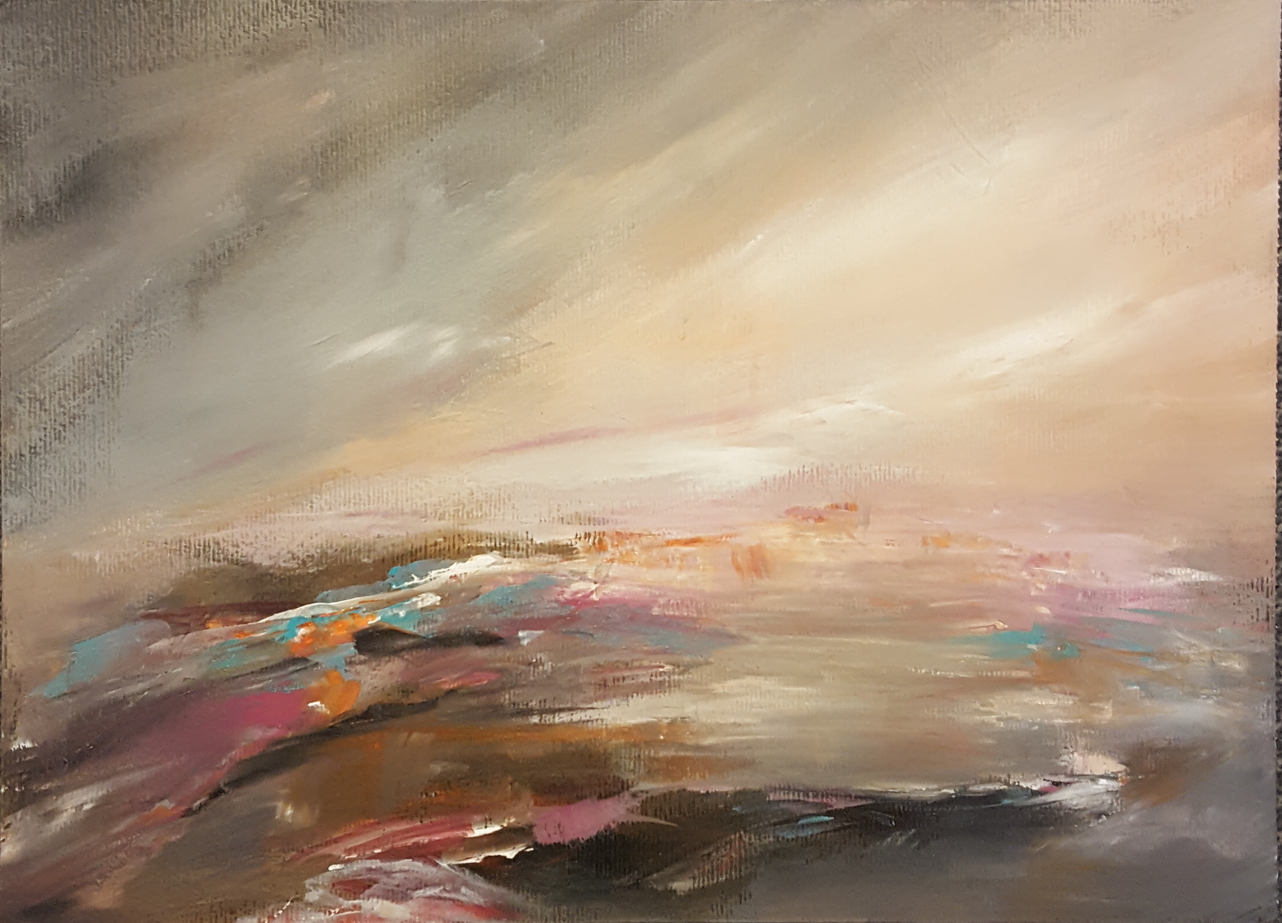
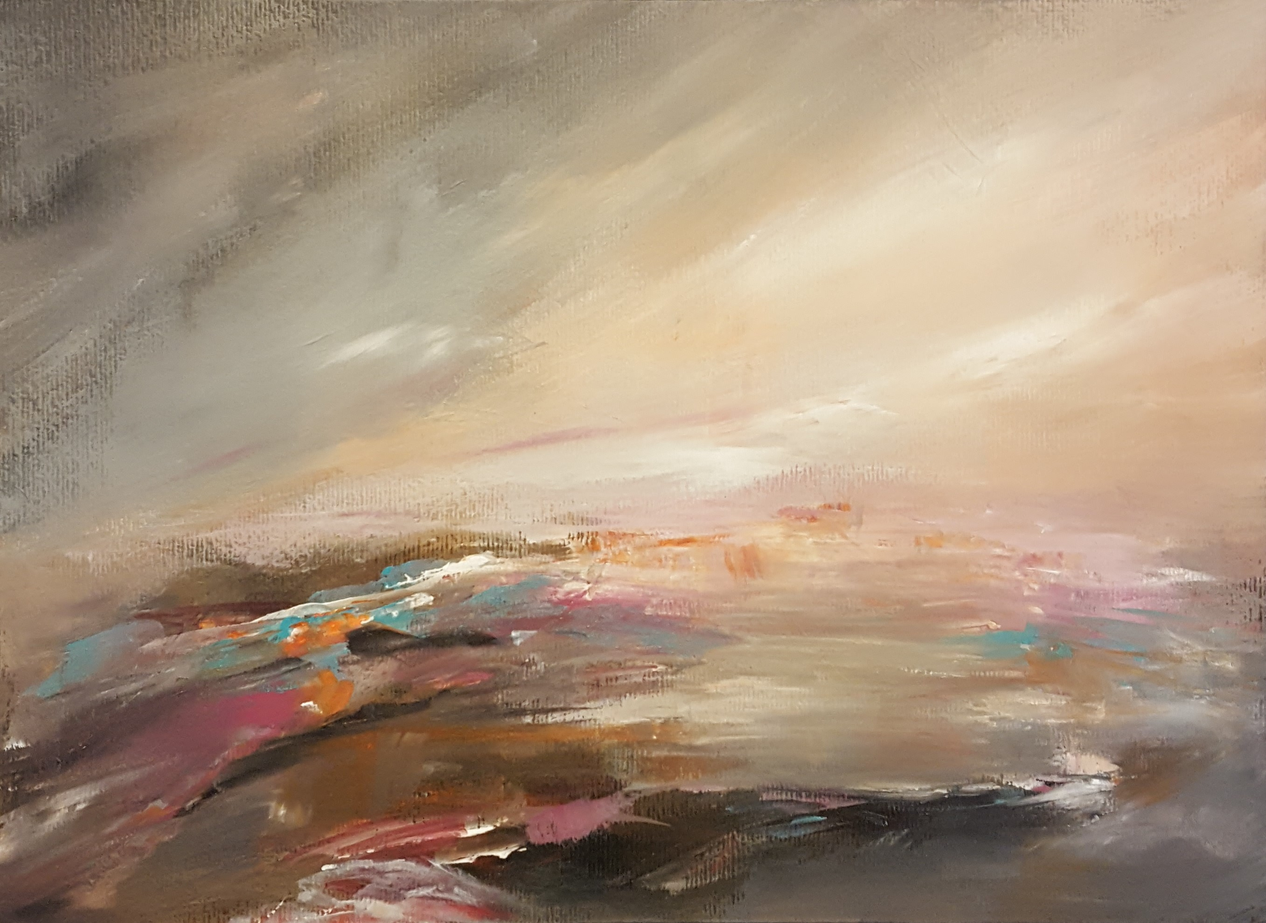
laget thumbnails og lagt vannmerke på bilder

diff --git a/src/bilder.html b/src/bilder.html
@@ -48,6 +48,7 @@
         <br>Jeg sender over hele landet.
         <br>Ved omsetning av kunst med salgspris over kr. 2.000,- skal det betales 5% kunstavgift.<br>Kunstavgiften er inkludert i prisen på alle mine bilder.</p>
         <p>Det er alltid et større utvalg i Mitt Atelier på Kleppe, <br>samt på min Instagram <a href="http://www.instagram.com/mittatelier" target="_blank"><img src="img/insta.png" alt="Instagram logo" style="text-decoration:none;width:22px;height:22px;border:0;"></a> mittatelier.</p>
+        <p>Klikk på bildet for å se større versjon med bedre oppløsning.</p>
       </article>
     </main>
 
@@ -58,32 +59,32 @@
       </div>
       
       <div class="gallery">
-        <a target="_blank" href="img/haap.jpg"><img src="img/haap.jpg" alt="Håp" width="400px"></a>
+        <a target="_blank" href="img/haap_logo.jpg"><img src="img/haap_liten.jpg" alt="Håp" width="400px"></a>
         <div class="desc">"Håp"<br>80 x 80 cm<br>Olje på lerret<br>Pris kr. 5100,-</div>
       </div>
 
       <div class="gallery">
-        <a target="_blank" href="img/strommer.jpg"><img src="img/strommer.jpg" alt="Strømmer av nåde" width="400"></a>
+        <a target="_blank" href="img/strommer_logo.jpg"><img src="img/strommer_liten.jpg" alt="Strømmer av nåde" width="400"></a>
         <div class="desc">"Strømmer av nåde"<br>80 x 80 cm<br>Olje på lerret<br>Pris kr. 5100,-</div>
       </div>
 
       <div class="gallery">
-        <a target="_blank" href="img/howclose.jpg"><img src="img/howclose.jpg" alt="How Close" width="400"></a>
+        <a target="_blank" href="img/howclose_logo.jpg"><img src="img/howclose_liten.jpg" alt="How Close" width="400"></a>
         <div class="desc">"How Close"<br>80 x 80 cm<br>Olje på lerret<br>Pris kr. 5100,-</div>
       </div>
 
       <div class="gallery">
-        <a target="_blank" href="img/fredfull.jpg"><img src="img/fredfull.jpg" alt="Fredfull" width="400"></a>
+        <a target="_blank" href="img/fredfull_logo.jpg"><img src="img/fredfull_liten.jpg" alt="Fredfull" width="400"></a>
         <div class="desc">"Fredfull"<br>80 x 80 cm<br>Olje på lerret<br>Pris kr. 4800,-</div>
       </div>
 
       <div class="gallery">
-        <a target="_blank" href="img/olje_1.jpg"><img src="img/olje_1.jpg" alt="Uten tittel" width="400"></a>
+        <a target="_blank" href="img/olje_1_logo.jpg"><img src="img/olje_1_liten.jpg" alt="Uten tittel" width="400"></a>
         <div class="desc">"Uten tittel"<br>80 x 80 cm<br>Olje på lerret<br>Pris kr. 4800,-</div>
       </div>
 
       <div class="gallery">
-        <a target="_blank" href="img/stillehav.jpg"><img src="img/stillehav.jpg" alt="Stille hav" width="400"></a>
+        <a target="_blank" href="img/stillehav_logo.jpg"><img src="img/stillehav_liten.jpg" alt="Stille hav" width="400"></a>
         <div class="desc">"Stille hav"<br>80 x 60 cm<br>Olje på lerret (deep edge canvas)<br>Pris kr. 3000,-</div>
       </div>
 
@@ -92,18 +93,18 @@
       </div>
 
       <div class="gallery">
-        <a target="_blank" href="img/trost.jpg"><img src="img/trost.jpg" alt="Trøst" width="250px"></a>
+        <a target="_blank" href="img/trost_logo.jpg"><img src="img/trost_liten.jpg" alt="Trøst" width="250px"></a>
         <div class="desc">"Trøst"<br>50 x 70 cm<br>Akryl på lerret (deep edge canvas)<br>Pris kr. 3600,-</div>
       </div>
 
       <div class="gallery">
-        <a target="_blank" href="img/akryllerret_1.jpg"><img src="img/akryllerret_1.jpg" alt="Uten tittel" width="400px"></a>
-        <div class="desc">"Uten tittel"<br>80 x 80 cm<br>Akryl på lerret<br>Pris kr. 4800,-</div>
+        <a target="_blank" href="img/akryllerret_1_logo.jpg"><img src="img/akryllerret_1_liten.jpg" alt="Uten tittel" width="400px"></a>
+        <div class="desc"><br>80 x 80 cm<br>Akryl på lerret<br>Pris kr. 4800,-</div>
       </div>
 
       <div class="gallery">
-        <a target="_blank" href="img/akryllerret_2.jpg"><img src="img/akryllerret_2.jpg" alt="Uten tittel" width="400px"></a>
-        <div class="desc">"Uten tittel"<br>80 x 80 cm<br>Akryl på lerret<br>Pris kr. 4800,-</div>
+        <a target="_blank" href="img/akryllerret_2_logo.jpg"><img src="img/akryllerret_2_liten.jpg" alt="Uten tittel" width="400px"></a>
+        <div class="desc"><br>80 x 80 cm<br>Akryl på lerret<br>Pris kr. 4800,-</div>
       </div>
 
       <div style="width: 100%; padding: 15px;">
@@ -111,53 +112,53 @@
       </div>
 
       <div class="gallery">
-        <a target="_blank" href="img/akryl_1.jpg"><img src="img/akryl_1.jpg" alt="Akryl på papir" width="400"></a>
+        <a target="_blank" href="img/akryl_1_logo.jpg"><img src="img/akryl_1_liten.jpg" alt="Akryl på papir" width="400"></a>
         <div class="desc"> <br>42 x 30 cm (A3)<br>Akryl på papir<br>Pris kr. 1100,-</div>
       </div>
 
       <div class="gallery">
-        <a target="_blank" href="img/akryl_2.jpg"><img src="img/akryl_2.jpg" alt="Akryl på papir" width="400"></a>
-        <div class="desc"> <br>42 x 30 cm<br>Akryl på papir<br>Pris kr. 1100,-</div>
+        <a target="_blank" href="img/akryl_2_logo.jpg"><img src="img/akryl_2_liten.jpg" alt="Akryl på papir" width="400"></a>
+        <div class="desc"> <br>42 x 30 cm (A3)<br>Akryl på papir<br>Pris kr. 1100,-</div>
       </div>
 
       <div class="gallery">
-        <a target="_blank" href="img/akryl_3.jpg"><img src="img/akryl_3.jpg" alt="Akryl på papir" width="400"></a>
-        <div class="desc"> <br>42 x 30 cm<br>Akryl på papir<br>Pris kr. 1100,-</div>
+        <a target="_blank" href="img/akryl_3_logo.jpg"><img src="img/akryl_3_liten.jpg" alt="Akryl på papir" width="400"></a>
+        <div class="desc"> <br>42 x 30 cm (A3)<br>Akryl på papir<br>Pris kr. 1100,-</div>
       </div>
 
       <div class="gallery">
-        <a target="_blank" href="img/akryl_4.jpg"><img src="img/akryl_4.jpg" alt="Akryl på papir" width="400"></a>
-        <div class="desc"> <br>42 x 30 cm<br>Akryl på papir<br>Pris kr. 1100,-</div>
+        <a target="_blank" href="img/akryl_4_logo.jpg"><img src="img/akryl_4_liten.jpg" alt="Akryl på papir" width="400"></a>
+        <div class="desc"> <br>42 x 30 cm (A3)<br>Akryl på papir<br>Pris kr. 1100,-</div>
       </div>
 
       <div class="gallery">
-        <a target="_blank" href="img/akryl_5.jpg"><img src="img/akryl_5.jpg" alt="Akryl på papir" width="400"></a>
-        <div class="desc"> <br>42 x 30 cm<br>Akryl på papir<br>Pris kr. 1100,-</div>
+        <a target="_blank" href="img/akryl_5_logo.jpg"><img src="img/akryl_5_liten.jpg" alt="Akryl på papir" width="400"></a>
+        <div class="desc"> <br>42 x 30 cm (A3)<br>Akryl på papir<br>Pris kr. 1100,-</div>
       </div>
 
       <div class="gallery">
-        <a target="_blank" href="img/akryl_6.jpg"><img src="img/akryl_6.jpg" alt="Akryl på papir" width="400"></a>
-        <div class="desc"> <br>42 x 30 cm<br>Akryl på papir<br>Pris kr. 1100,-</div>
+        <a target="_blank" href="img/akryl_6_logo.jpg"><img src="img/akryl_6_liten.jpg" alt="Akryl på papir" width="400"></a>
+        <div class="desc"> <br>42 x 30 cm (A3)<br>Akryl på papir<br>Pris kr. 1100,-</div>
       </div>
 
       <div class="gallery">
-        <a target="_blank" href="img/akryl_7.jpg"><img src="img/akryl_7.jpg" alt="Akryl på papir" width="400"></a>
-        <div class="desc"> <br>42 x 30 cm<br>Akryl på papir<br>Pris kr. 1100,-</div>
+        <a target="_blank" href="img/akryl_7_logo.jpg"><img src="img/akryl_7_liten.jpg" alt="Akryl på papir" width="400"></a>
+        <div class="desc"> <br>42 x 30 cm (A3)<br>Akryl på papir<br>Pris kr. 1100,-</div>
       </div>
 
       <div class="gallery">
-        <a target="_blank" href="img/akryl_8.jpg"><img src="img/akryl_8.jpg" alt="Akryl på papir" width="400"></a>
-        <div class="desc"> <br>42 x 30 cm<br>Akryl på papir<br>Pris kr. 1100,-</div>
+        <a target="_blank" href="img/akryl_8_logo.jpg"><img src="img/akryl_8_liten.jpg" alt="Akryl på papir" width="400"></a>
+        <div class="desc"> <br>42 x 30 cm (A3)<br>Akryl på papir<br>Pris kr. 1100,-</div>
       </div>
 
       <div class="gallery">
-        <a target="_blank" href="img/akryl_9.jpg"><img src="img/akryl_9.jpg" alt="Akryl på papir" width="400"></a>
-        <div class="desc"> <br>42 x 30 cm<br>Akryl på papir<br>Pris kr. 1100,-</div>
+        <a target="_blank" href="img/akryl_9_logo.jpg"><img src="img/akryl_9_liten.jpg" alt="Akryl på papir" width="400"></a>
+        <div class="desc"> <br>42 x 30 cm (A3)<br>Akryl på papir<br>Pris kr. 1100,-</div>
       </div>
 
       <div class="gallery">
-        <a target="_blank" href="img/akryl_10.jpg"><img src="img/akryl_10.jpg" alt="Akryl på papir" width="400"></a>
-        <div class="desc"> <br>42 x 30 cm<br>Akryl på papir<br>Pris kr. 1100,-</div>
+        <a target="_blank" href="img/akryl_10_logo.jpg"><img src="img/akryl_10_liten.jpg" alt="Akryl på papir" width="400"></a>
+        <div class="desc"> <br>42 x 30 cm (A3)<br>Akryl på papir<br>Pris kr. 1100,-</div>
       </div>
 
       <div style="width: 100%; padding: 15px;">
@@ -165,37 +166,37 @@
       </div>
 
       <div class="gallery">
-        <a target="_blank" href="img/tilgivelse.jpg"><img src="img/tilgivelse.jpg" alt="Tilgivelse" width="400"></a>
+        <a target="_blank" href="img/tilgivelse_logo.jpg"><img src="img/tilgivelse_liten.jpg" alt="Tilgivelse" width="400"></a>
         <div class="desc">"Tilgivelse"<br>80 x 80 cm<br>Olje på lerret<br>Solgt</div>
       </div>
 
       <div class="gallery">
-        <a target="_blank" href="img/livetsutfordringer.jpg"><img src="img/livetsutfordringer.jpg" alt="Tilgivelse" width="400"></a>
+        <a target="_blank" href="img/livetsutfordringer_logo.jpg"><img src="img/livetsutfordringer_liten.jpg" alt="Tilgivelse" width="400"></a>
         <div class="desc">"Når livets utfordringer slår som flammer<br>og alt det kjente renner bort,<br>står du likevel trygt for Gud er med deg"<br>80 x 80 cm<br>Olje på lerret<br>Solgt</div>
       </div>
 
       <div class="gallery">
-        <a target="_blank" href="img/gyllenmorgen.jpg"><img src="img/gyllenmorgen.jpg" alt="Gyllen morgen" width="400"></a>
+        <a target="_blank" href="img/gyllenmorgen_logo.jpg"><img src="img/gyllenmorgen_liten.jpg" alt="Gyllen morgen" width="400"></a>
         <div class="desc">"Gyllen morgen"<br>40 x 50 cm (x2)<br>Olje på lerret<br>Solgt</div>
       </div>
 
       <div class="gallery">
-        <a target="_blank" href="img/morsrollen.jpg"><img src="img/morsrollen.jpg" alt="Morsrollen" width="400"></a>
+        <a target="_blank" href="img/morsrollen_logo.jpg"><img src="img/morsrollen_liten.jpg" alt="Morsrollen" width="400"></a>
         <div class="desc">"Morsrollen"<br>80 x 60 cm<br>Olje på lerret<br>Solgt</div>
       </div>
 
       <div class="gallery">
-        <a target="_blank" href="img/vandring.jpg"><img src="img/vandring.jpg" alt="Vandring" width="300"></a>
+        <a target="_blank" href="img/vandring_logo.jpg"><img src="img/vandring_liten.jpg" alt="Vandring" width="300"></a>
         <div class="desc">"Vandring"<br>60 x 80 cm<br>Olje på lerret<br>Solgt</div>
       </div>
 
       <div class="gallery">
-        <a target="_blank" href="img/solgt_1.jpg"><img src="img/solgt_1.jpg" alt="Uten tittel" width="300"></a>
+        <a target="_blank" href="img/solgt_1_logo.jpg"><img src="img/solgt_1_liten.jpg" alt="Uten tittel" width="300"></a>
         <div class="desc">"Uten tittel"<br> <br>Olje på lerret<br>Solgt</div>
       </div>
 
       <div class="gallery">
-        <a target="_blank" href="img/solgt_2.jpg"><img src="img/solgt_2.jpg" alt="Uten tittel" width="300"></a>
+        <a target="_blank" href="img/solgt_2_logo.jpg"><img src="img/solgt_2_liten.jpg" alt="Uten tittel" width="300"></a>
         <div class="desc">"Uten tittel"<br> <br>Olje på lerret<br>Solgt</div>
       </div>
     
